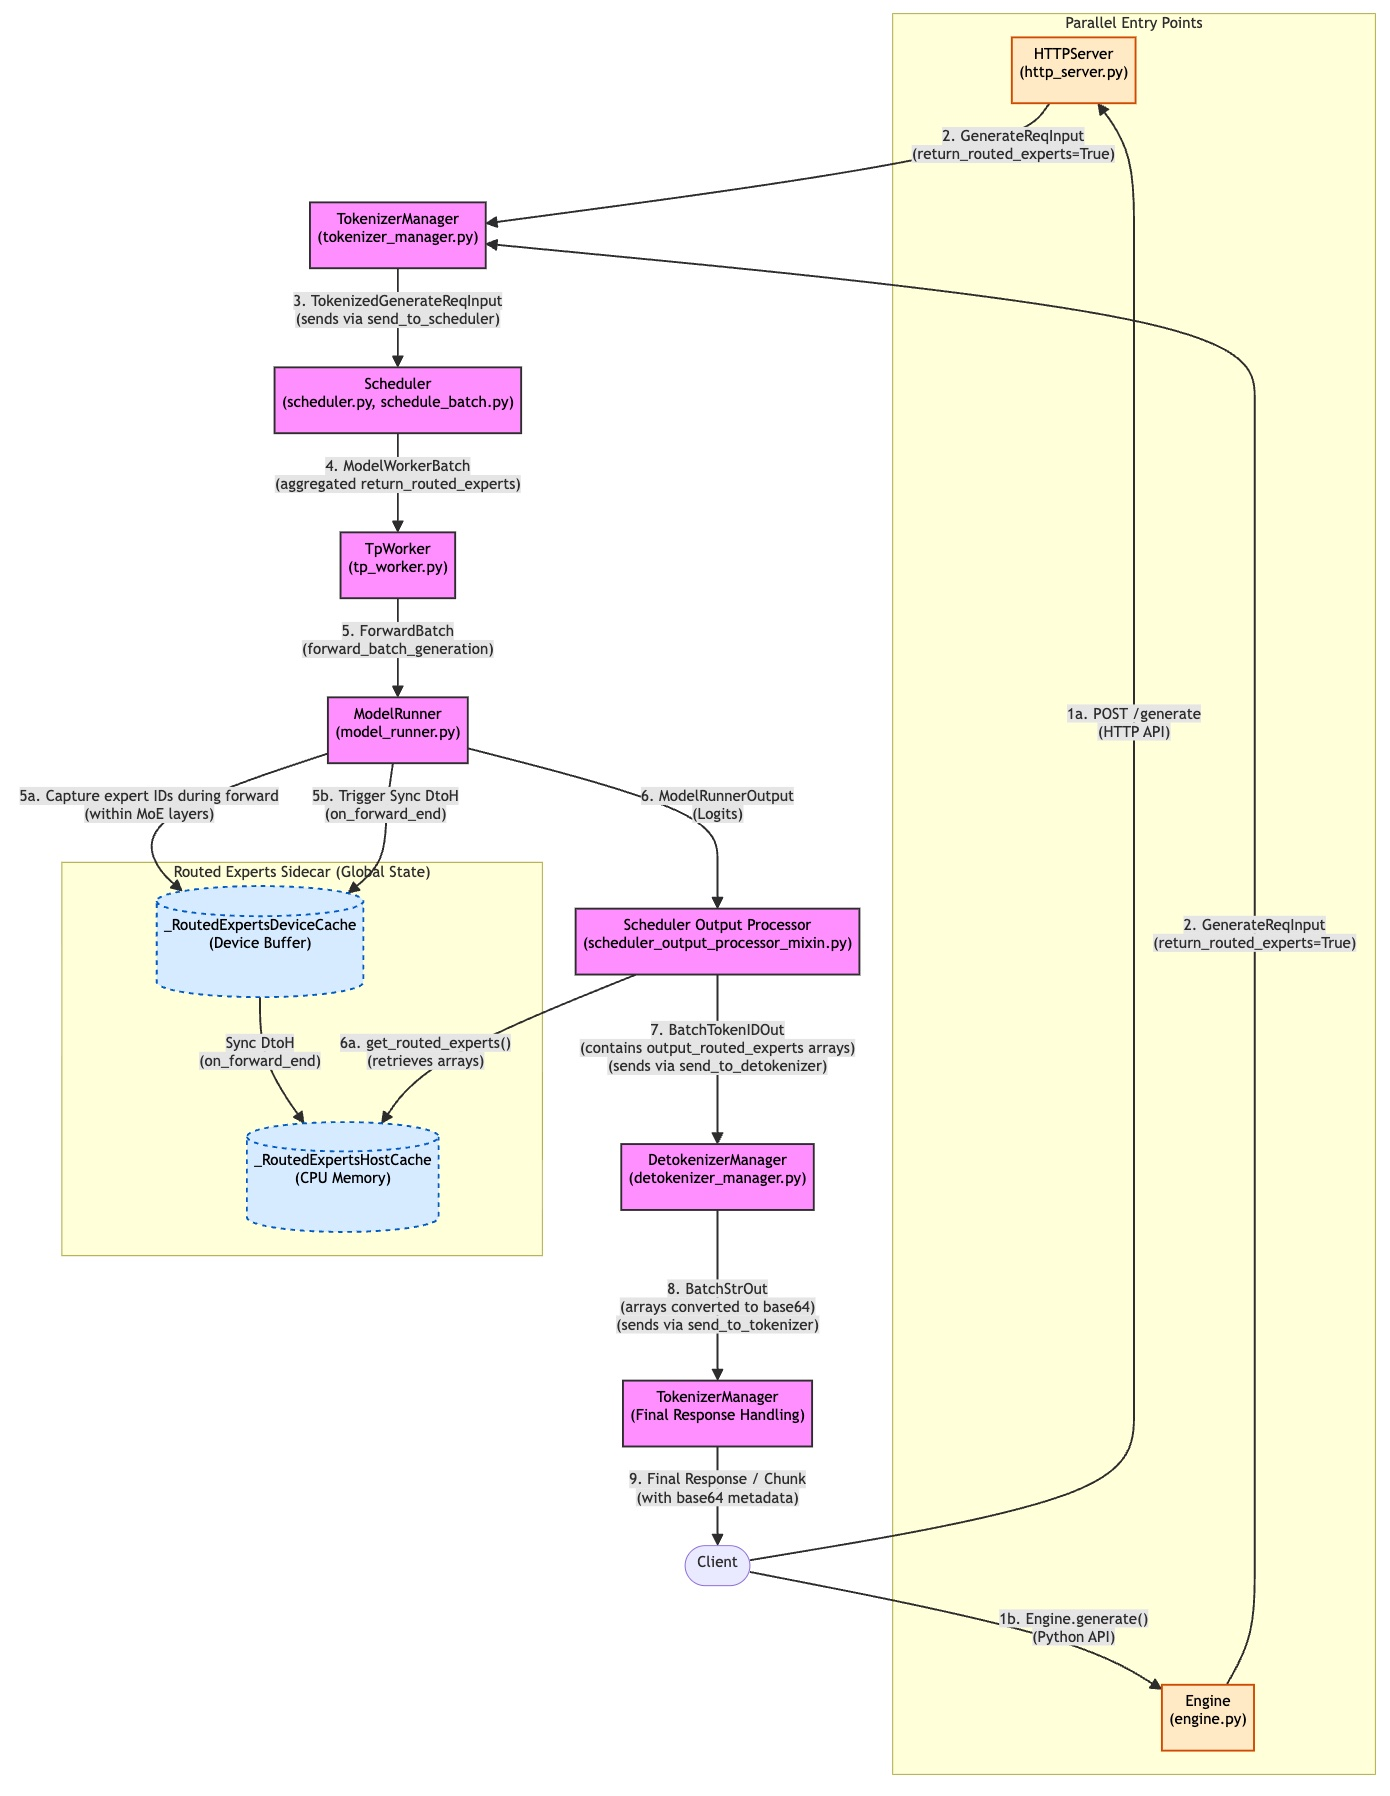
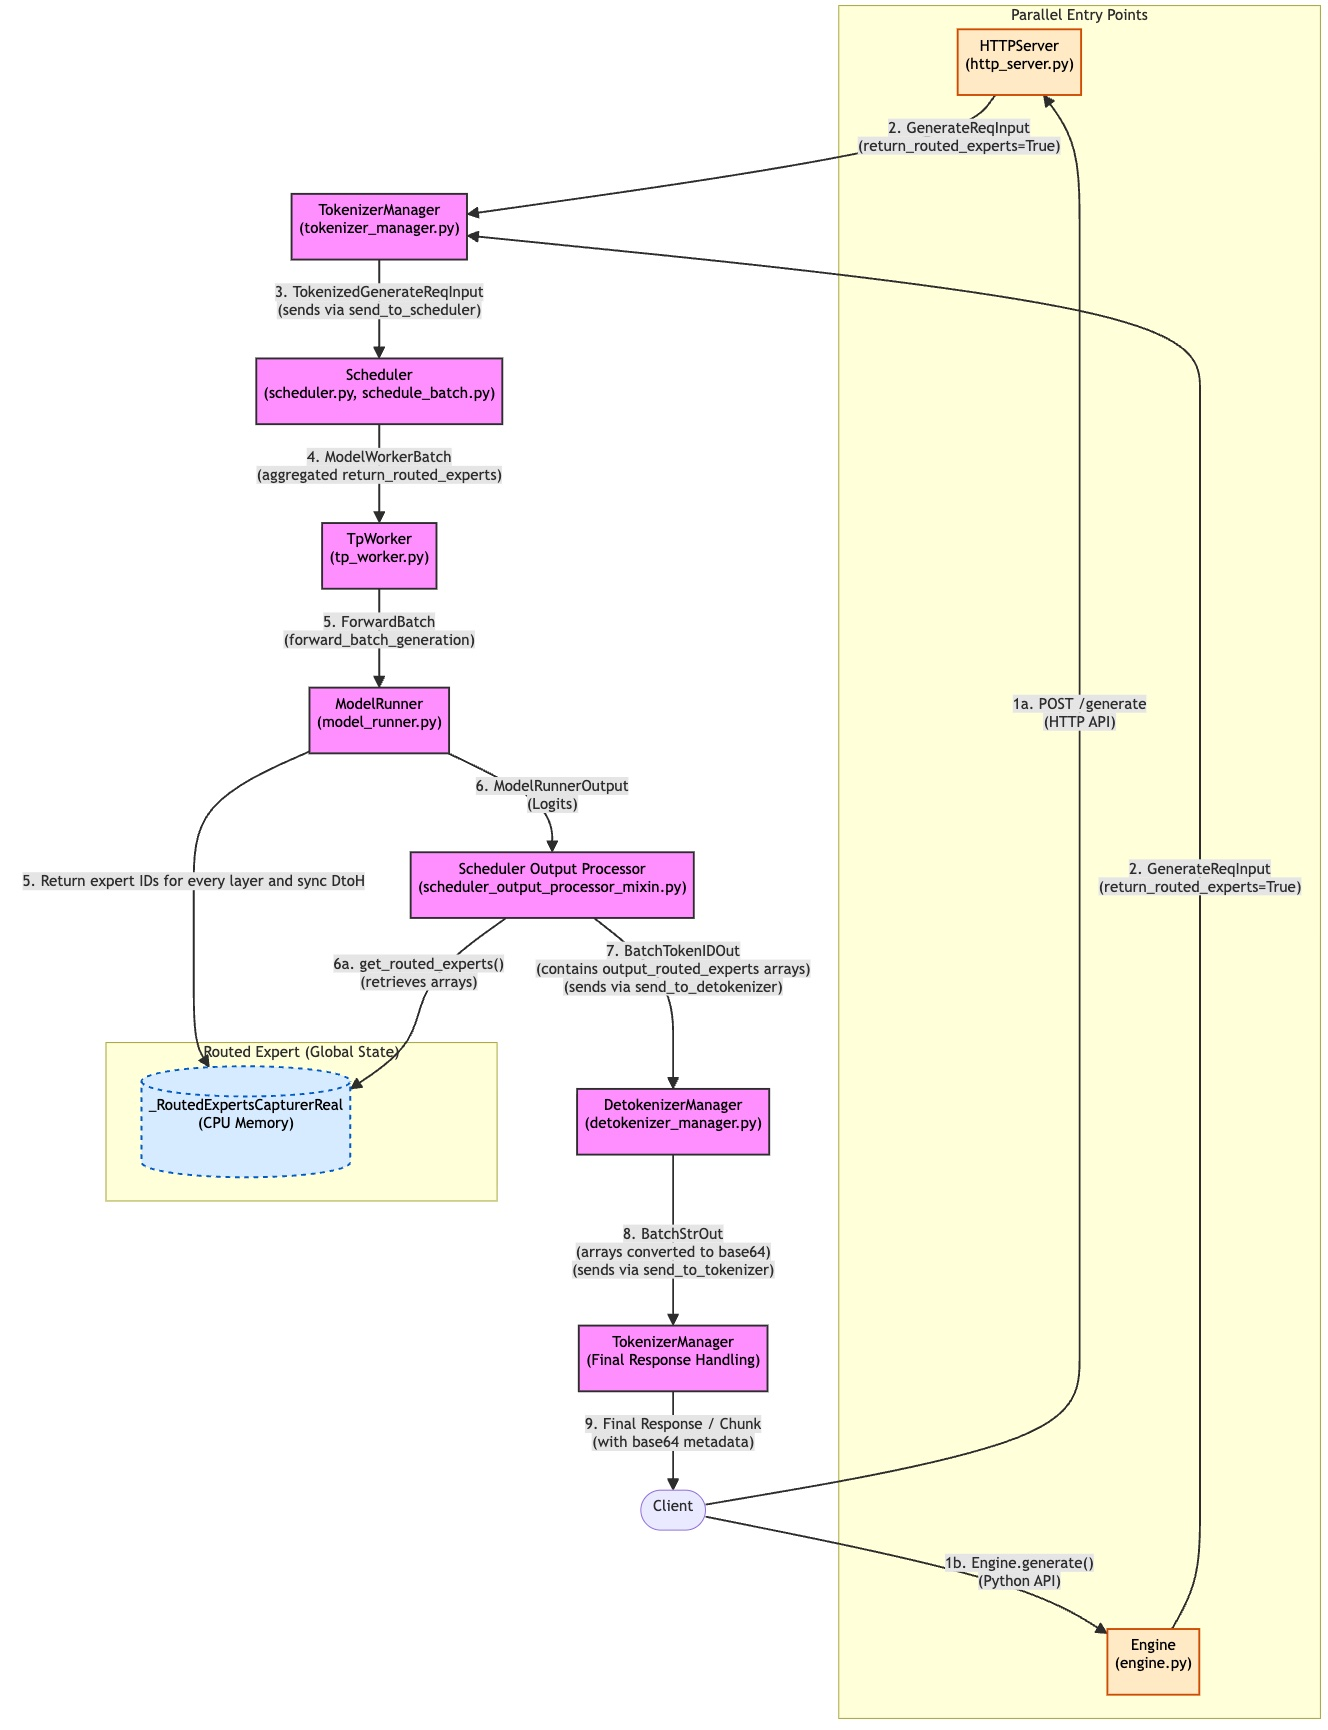
update docs

Changed region(s): [[0.0, 0.0, 1.0, 0.9988], [0.8645, 0.1873, 0.8953, 0.2185], [0.7718, 0.8116, 0.8027, 0.8428]]

diff --git a/docs/features/return_routed_experts.md b/docs/features/return_routed_experts.md
@@ -9,7 +9,9 @@ This document describes the design and implementation of the `enable_return_rout
 - Expert utilization monitoring
 - Research on MoE routing patterns
 
-Note: This design document refers to https://github.com/sgl-project/sglang/pull/12162/files#diff-8e61cb3c05ca6a5e195f011e21ea7544f9f7e08163e3ce4ffa0bacb4b5735259.
+Note:
+- This design document refers to [PR12162](https://github.com/sgl-project/sglang/pull/12162/files#diff-8e61cb3c05ca6a5e195f011e21ea7544f9f7e08163e3ce4ffa0bacb4b5735259).
+- Difference: `_RoutedExpertsDeviceCache` will be removed due to explicit axis and reshard performance problems in every layer.
 
 ---
 
@@ -23,7 +25,7 @@ The `enable_return_routed_experts` feature introduces a data capture and return 
 
 1. **Request Parameter Propagation**: A new boolean field `return_routed_experts` is added to request structures, flowing from client input through all intermediate components to the model runner.
 
-2. **Expert Capture Mechanism**: During model forward passes, expert routing decisions (topk expert IDs) are captured in device buffers and synchronously transferred to CPU memory for later retrieval.
+2. **Expert Capture Mechanism**: During model forward passes, expert routing decisions (topk expert IDs) are returned and synchronously transferred to CPU memory for later retrieval.
 
 3. **Result Aggregation**: After inference completes, the captured expert routing information is retrieved from the capturer, attached to the request state, and returned to the client alongside standard outputs.
 
@@ -279,10 +281,9 @@ pybase64.b64encode(array.numpy().tobytes()).decode("utf-8")
 
 #### 3.2.1 Architecture Overview
 
-The `RoutedExpertsCapturer` is the core component responsible for capturing, storing, and retrieving expert routing information from MoE models. It implements a two-tier caching strategy with:
+The `RoutedExpertsCapturer` is the core component responsible for capturing, storing, and retrieving expert routing information from MoE models. It implements with:
 
-1. **Device Cache**: Fast, volatile buffer for capturing expert IDs during forward passes
-2. **Host Cache**: Persistent, pinned memory buffer for long-term storage and retrieval
+1. **Host Cache**: Persistent, memory buffer for long-term storage and retrieval
 
 The component uses a **factory pattern** with two implementations:
 - `_RoutedExpertsCapturerReal`: Active implementation when feature is enabled
@@ -293,8 +294,6 @@ The component uses a **factory pattern** with two implementations:
 ```
 RoutedExpertsCapturer (ABC)
 ├── _RoutedExpertsCapturerReal
-│   ├── _RoutedExpertsDeviceCache (Device buffer)
-│   └── _RoutedExpertsHostCache (CPU buffer)
 └── _RoutedExpertsCapturerNoop (no-op)
 ```
 
@@ -320,119 +319,16 @@ def set_global_experts_capturer(capturer: RoutedExpertsCapturer):
 def create(
     enable: bool,
     model_config: ModelConfig,
-    num_fused_shared_experts: int,
     num_tokens: int,
-    max_running_requests: int,
 ) -> RoutedExpertsCapturer
 ```
 
 **Parameters**:
 - `enable`: Whether to create real or no-op capturer (from `server_args.enable_return_routed_experts`)
 - `model_config`: Model configuration containing layer count and expert topology
-- `num_fused_shared_experts`: Number of fused shared experts (used for buffer sizing)
 - `num_tokens`: Total size of token pool (determines host cache size)
-- `max_running_requests`: Maximum concurrent requests (determines device cache size with other factors in prefill, like chunked_prefill_size)
 
----
-
-#### 3.2.4 Device Cache: `_RoutedExpertsDeviceCache`
-
-**Purpose**: Device-side buffer for capturing expert IDs during forward passes.
-
-##### A. Initialization
-
-```python
-@register_pytree_node_class
-class _RoutedExpertsDeviceCache:
-    def __init__(
-        self,
-        max_running_requests: int,
-        num_hidden_layers: int,
-        num_experts_per_tok: int,
-        num_fused_shared_experts: int,
-    ) -> None:
-        self.buffer = jnp.zeros(
-            (
-                max(
-                    get_global_server_args().chunked_prefill_size,
-                    max_running_requests,
-                ),
-                num_hidden_layers,
-                num_experts_per_tok + num_fused_shared_experts,
-            ),
-            dtype=jnp.int32,
-        )
-```
-
-**Buffer Shape**:
-- Dimension 0: `max(chunked_prefill_size, max_running_requests)`
-  - Accommodates both prefill and decode batches
-- Dimension 1: `num_hidden_layers` - One slice per model layer
-- Dimension 2: `num_experts_per_tok + num_fused_shared_experts`
-  - Stores topk expert IDs plus fused shared experts
-
-**Memory Footprint Example** (Qwen3-30B-A3B MoE):
-- Shape: `[max(2048, 1024), 48, 8+0]` = `[2048, 48, 8]`
-- Size: `2048 × 48 × 8 × 4 bytes` = **3.0 MB**
-
-##### B. Capture Method
-
-```python
-def capture_fwd_routed_experts(self, layer_id: int, topk_ids: jax.Array):
-    assert layer_id is not None, "capturing routing experts but get layer_id None"
-    batch, _ = topk_ids.shape
-    new_buffer = self.buffer.at[:batch, layer_id, :].set(topk_ids) # Note: This method may be changed in the real codes
-
-    self.buffer = new_buffer
-    return new_buffer
-```
-
----
-
-#### 3.2.5 Host Cache: `_RoutedExpertsHostCache`
-
-**Purpose**: CPU-side pinned memory buffer for persistent storage of expert IDs.
-
-##### A. Initialization
-
-```python
-class _RoutedExpertsHostCache:
-    def __init__(
-        self,
-        num_tokens: int,
-        num_hidden_layers: int,
-        num_experts_per_tok: int,
-    ) -> None:
-        self.num_tokens = num_tokens
-        self.buffer = np.zeros(
-            (
-                num_tokens,
-                num_hidden_layers,
-                num_experts_per_tok,
-            ),
-            dtype=np.int32,
-        )
-```
-
-**Buffer Shape**:
-- Dimension 0: `num_tokens` - One slot per token in the token pool
-- Dimension 1: `num_hidden_layers` - One slice per layer
-- Dimension 2: `num_experts_per_tok` - Stores topk expert IDs only (no shared experts)
-
-**Memory Footprint Example** (Large deployment):
-- Shape: `[131072, 48, 8]` (128K tokens)
-- Size: `131072 × 48 × 8 × 4 bytes` = **192MB**
-
-##### B. Set Method
-
-```python
-def set_experts_buffer(self, layer_id: int, loc: np.ndarray, top_k: np.ndarray):
-    self.buffer[layer_id, loc, :] = top_k
-```
-
----
-
-#### 3.2.6 Real Capturer: `_RoutedExpertsCapturerReal`
+#### 3.2.4 Real Capturer: `_RoutedExpertsCapturerReal`
 
 ##### A. Initialization
 
@@ -442,42 +338,35 @@ class _RoutedExpertsCapturerReal(RoutedExpertsCapturer):
         self,
         model_config: ModelConfig,
         num_tokens: int,
-        max_running_requests: int,
-        num_fused_shared_experts: int,
     ):
-        self.num_fused_shared_experts = num_fused_shared_experts
         self.num_hidden_layers = model_config.hf_text_config.num_hidden_layers
         self.num_experts_per_tok = model_config.hf_text_config.num_experts_per_tok
 
-        self.host_cache = _RoutedExpertsHostCache(
-            num_tokens=num_tokens,
-            num_hidden_layers=self.num_hidden_layers,
-            num_experts_per_tok=self.num_experts_per_tok,
-        )
-
-        self.device_cache = _RoutedExpertsDeviceCache(
-            max_running_requests=max_running_requests,
-            num_hidden_layers=self.num_hidden_layers,
-            num_experts_per_tok=self.num_experts_per_tok,
-            num_fused_shared_experts=self.num_fused_shared_experts,
+        self.host_buffer = np.zeros(
+            (
+                num_tokens,
+                self.num_hidden_layers,
+                self.num_experts_per_tok,
+            ),
+            dtype=np.int32,
         )
 ```
 
-##### B. Capture Method
+**Host Buffer Shape**:
+Dimension 0: `num_tokens` - One slot per token in the token pool
+Dimension 1: `num_hidden_layers` - One slice per layer
+Dimension 2: `num_experts_per_tok` - Stores topk expert IDs only (no shared experts)
 
-```python
-def capture(self, layer_id: int, topk_ids: jax.Array):
-    self.device_cache.capture_fwd_routed_experts(layer_id, topk_ids)
-```
+**Memory Footprint Example (Large deployment)**:
+Shape: [131072, 48, 8] (128K tokens)
+Size: 131072 × 48 × 8 × 4 bytes = 192MB
 
-##### C. Device-to-Host Synchronization
+##### B. Device-to-Host Synchronization
 
 ```python
 def _sync_fwd_experts_buffer_DtoH(
     self,
-    forward_batch: ForwardBatch,
-    can_run_graph: bool,
-    cuda_graph_batch: int,
+    model_worker_batch: ModelWorkerBatch,
 ):
     pass
 ```
@@ -487,7 +376,7 @@ def _sync_fwd_experts_buffer_DtoH(
 2. Performs indexed copy from device buffer to host buffer
 3. Synchronizes CPU and Device (blocking operation)
 
-##### D. Retrieval Method
+##### C. Retrieval Method
 
 ```python
 def get_routed_experts(
@@ -508,18 +397,18 @@ def get_routed_experts(
 
 **Why `seqlen-1`?**: The last token in the sequence hasn't been routed yet during prefill, or represents the position where we want to generate the next token during decode.
 
-##### E. Forward End Hook
+##### D. Forward End Hook
 
 ```python
-def on_forward_end(self, forward_batch):
+def on_forward_end(self, model_worker_batch):
     self._sync_fwd_experts_buffer_DtoH(
-        forward_batch=forward_batch,
+        model_worker_batch=model_worker_batch,
     )
 ```
 
 ---
 
-#### 3.2.7 No-Op Capturer: `_RoutedExpertsCapturerNoop`
+#### 3.2.5 No-Op Capturer: `_RoutedExpertsCapturerNoop`
 
 **Purpose**: Zero-overhead placeholder when feature is disabled.
 
@@ -540,7 +429,7 @@ class _RoutedExpertsCapturerNoop(RoutedExpertsCapturer):
     ):
         pass
 
-    def on_forward_end(self, forward_batch):
+    def on_forward_end(self, model_worker_batch):
         pass
 
     # ... other no-op methods ...
